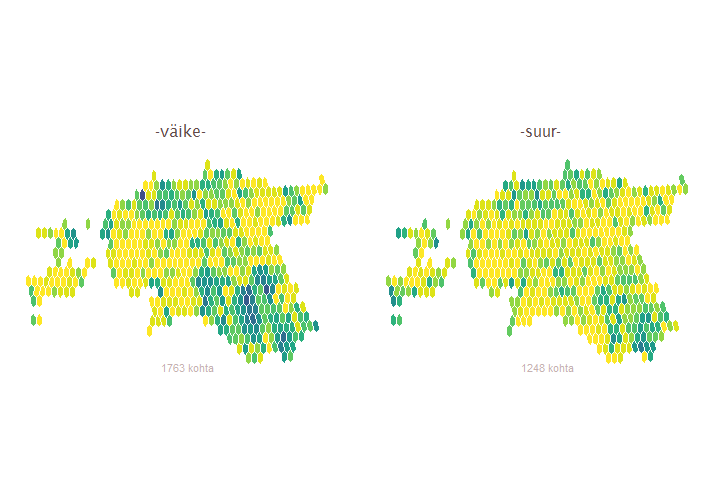
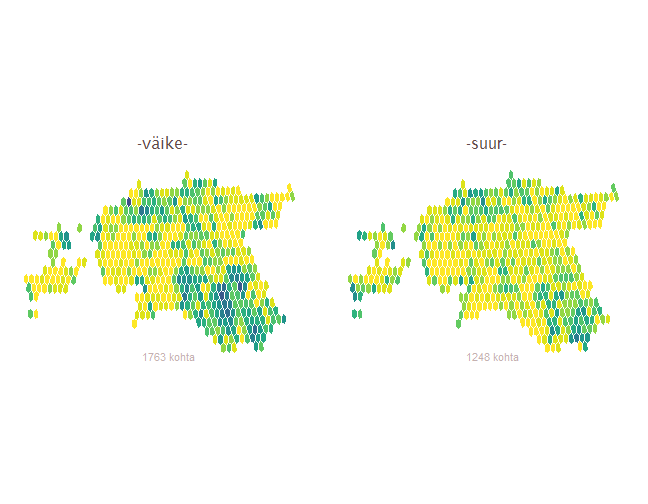
katsetused png failiga

diff --git a/_posts/2016-03-09-eesti-kohanimede-ruumiline-esinemissagedus.md b/_posts/2016-03-09-eesti-kohanimede-ruumiline-esinemissagedus.md
@@ -14,7 +14,7 @@ layout: post
 ## Mis?
 Inspireerituna Moritz Stefaner'i [blogipostitusest](http://truth-and-beauty.net/experiments/ach-ingen-zell/) tegin Eesti [kohanimeregistri](http://xgis.maaamet.ee/knravalik/) baasil väikese analüüsi kohanimedes sisalduvate sõnade ruumilisest esinemissagedusest. Kohanimeregisteris on üle 155 000 kande: linnad, tänavad, järved, mäed, poolsaared, bussipeatused, talud jne. Sellest andmebaasist otsisin kohanimesid, mis sisaldavad mingit sõna, näiteks "mets" ja kuvasin kõik vastavad asukohad kaardile. Tumesinine toon näitab suurt esinemissagedust, heleroheline väikest ning kollane seda, et piirkonnas vastavat sõna sisaldavaid kohanimesid pole.
 
-<img src="{{ site.url }}/img/eesti-kohanimede-ruumiline-esinemissagedus-mets-1.svg" title="plot of chunk mets" alt="plot of chunk mets" style="display: block; margin: auto;" />
+<img src="{{ site.url }}/img/eesti-kohanimede-ruumiline-esinemissagedus-mets-1.png" title="plot of chunk mets" alt="plot of chunk mets" style="display: block; margin: auto;" />
 
 See analüüs ei ole teaduslik ja ülimalt täpne lähenemine kohanimedele vaid pigem on eesmärk leida lihtsalt huvitavaid mustreid ja avastada Eestit uue nurga alt.
 
